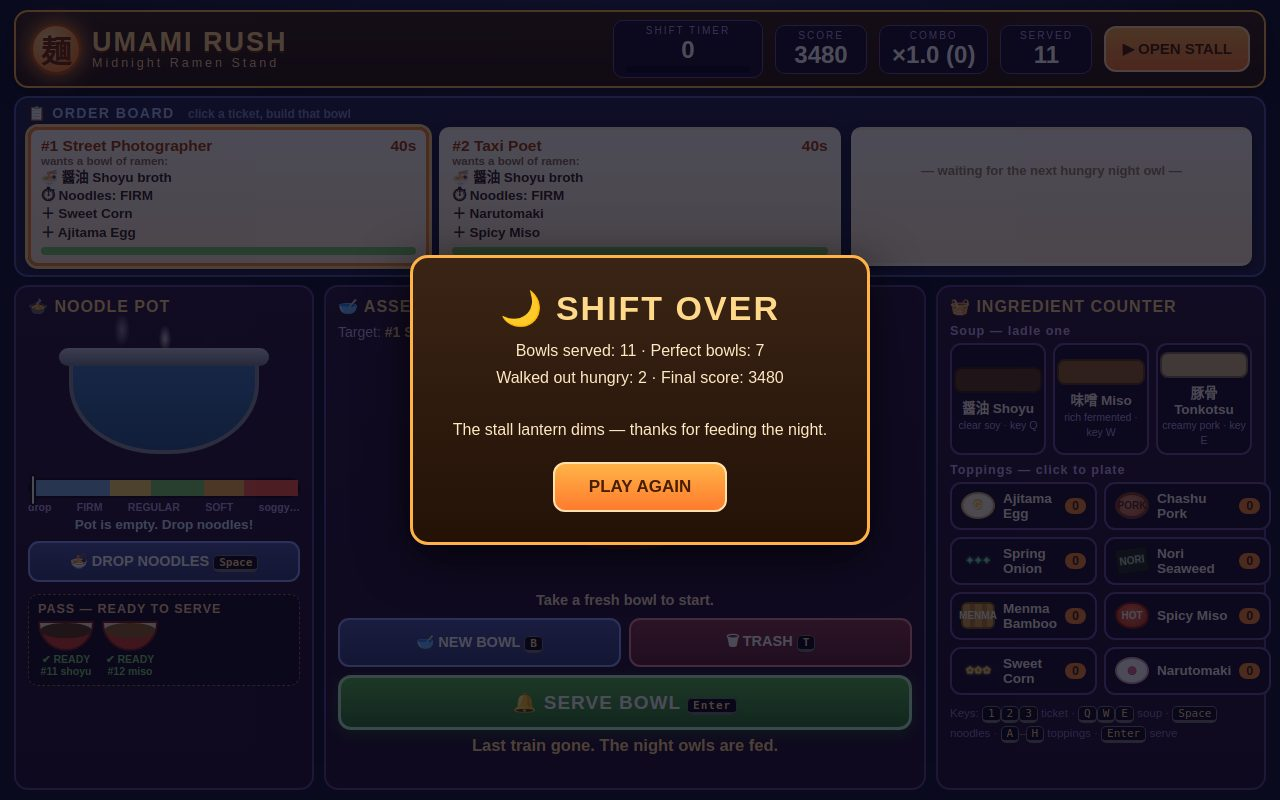
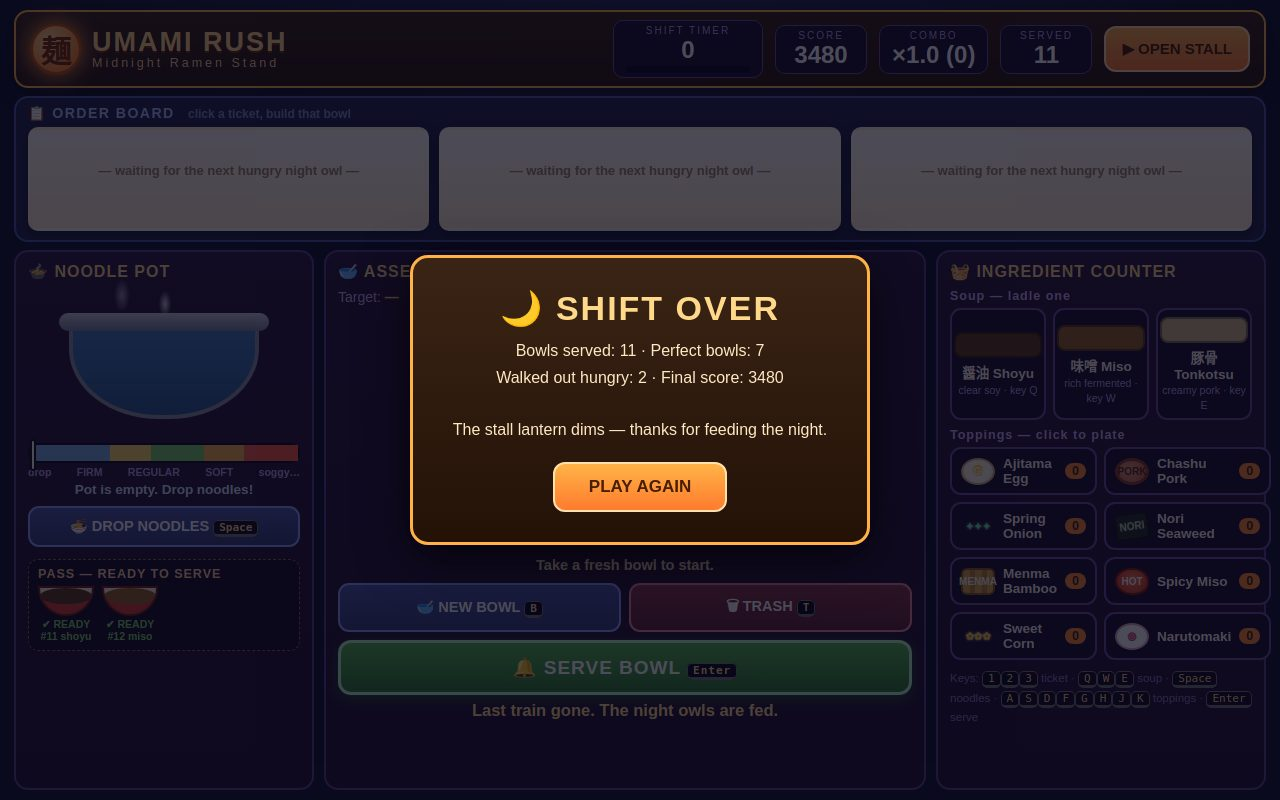
Fix Astra review findings: empty-bowl serve exploit, duplicate topping scoring, Enter/Space focus double-action, serve guard, end-scene board

diff --git a/game/src/main.js b/game/src/main.js
@@ -6,7 +6,7 @@ import {
   dropNoodlesInPot, pullNoodlesFromPot, tickPot,
 } from './cooking.js';
 import { buildCounterButtons, renderGame, showOverlay, hideOverlay } from './render.js';
-import { bindKeyboard, bindTicketClicks } from './input.js';
+import { bindKeyboard, bindTicketClicks, blurButtonsAfterClick } from './input.js';
 import { buildShotScene, shotEndSummary } from './shots.js';
 import { sfx } from './audio.js';
 
@@ -47,6 +47,7 @@ const handlers = {
     renderGame(state);
   },
   onServe() {
+    if (!state.running) { renderGame(state); return; }
     const result = serveCurrentBowl(state);
     if (result) { sfx.serveBell(); if (result.perfect) setTimeout(() => sfx.perfect(), 150); }
     renderGame(state);
@@ -58,6 +59,7 @@ const handlers = {
 };
 
 buildCounterButtons(handlers);
+blurButtonsAfterClick();
 bindTicketClicks((number) => { selectOrder(state, number); sfx.click(); renderGame(state); });
 bindKeyboard(handlers);
 document.getElementById('bowl-btn').addEventListener('click', handlers.onNewBowl);
@@ -86,7 +88,7 @@ renderGame(state);
 // Shift clock: only real play advances; screenshot scenes stay frozen.
 let lastTimestamp = performance.now();
 function frame(now) {
-  const dt = Math.min(0.05, (now - lastTimestamp) / 1000);
+  const dt = Math.min(0.1, (now - lastTimestamp) / 1000);
   lastTimestamp = now;
   if (state.running && !state.over) {
     tickPot(state.kitchen, dt);

diff --git a/game/src/game.js b/game/src/game.js
@@ -98,6 +98,11 @@ export function tickShift(state, dt, hooks) {
 export function serveCurrentBowl(state) {
   const order = selectedOrder(state);
   if (!order || !state.kitchen.bowl) return null;
+  if (!state.kitchen.bowl.broth || !state.kitchen.bowl.noodleDoneness) {
+    state.feedback = 'That bowl is not food yet — it needs broth and noodles before it can be served.';
+    state.feedbackKind = 'bad';
+    return null;
+  }
   const result = scoreServedBowl(state.kitchen.bowl, order, state.combo);
   state.score += result.points;
   state.servedCount += 1;
@@ -107,7 +112,7 @@ export function serveCurrentBowl(state) {
   state.feedback = result.verdict;
   state.feedbackKind = result.perfect ? 'good' : '';
   state.lastServe = { order, result };
-  state.kitchen.pass.push({ label: `#${order.number} ${order.broth}`, broth: order.broth });
+  state.kitchen.pass.push({ label: `#${order.number} ${state.kitchen.bowl.broth}`, broth: state.kitchen.bowl.broth });
   if (state.kitchen.pass.length > 3) state.kitchen.pass.shift();
   state.kitchen.bowl = null;
   state.orders = state.orders.filter((o) => o !== order);

diff --git a/game/src/cooking.js b/game/src/cooking.js
@@ -61,9 +61,14 @@ export function scoreServedBowl(bowl, order, combo) {
   if (bowl.broth === order.broth) earned += 60; else problems.push(bowl.broth ? 'wrong broth' : 'no broth');
   if (bowl.noodleDoneness === order.doneness) earned += 60;
   else problems.push(bowl.noodleDoneness ? `noodles ${bowl.noodleDoneness}` : 'no noodles');
-  const wanted = new Set(order.toppings);
   const missing = order.toppings.filter((t) => !bowl.toppings.includes(t));
-  const extras = bowl.toppings.filter((t) => !wanted.has(t));
+  const wantedCounts = {};
+  for (const t of order.toppings) wantedCounts[t] = (wantedCounts[t] || 0) + 1;
+  const extras = [];
+  for (const t of bowl.toppings) {
+    if (wantedCounts[t] > 0) wantedCounts[t] -= 1;
+    else extras.push(t);
+  }
   earned += (order.toppings.length - missing.length) * 22;
   if (missing.length) problems.push(`missing ${missing.join(', ')}`);
   if (extras.length) { earned -= extras.length * 18; problems.push(`extra ${extras.join(', ')}`); }

diff --git a/game/src/shots.js b/game/src/shots.js
@@ -32,7 +32,7 @@ export function buildShotScene(name, seed) {
     if (state.orders[1]) state.orders[1].patienceLeft = state.orders[1].patience * 0.3;
     state.feedback = name === 'cover'
       ? 'One topping to go — then ring the bell!'
-      : 'PERFECT BOWL! +412 — the customer slurps happily.';
+      : 'Combo is hot — finish this bowl, keep the line moving!';
     state.feedbackKind = 'good';
   }
 
@@ -57,6 +57,7 @@ export function buildShotScene(name, seed) {
     state.timeLeft = 0; state.elapsed = 90; state.over = true;
     state.score = 3480; state.combo = 0; state.servedCount = 11; state.perfectCount = 7;
     state.walkedOut = 2;
+    state.orders = []; state.selectedOrderNumber = null;
     state.kitchen.pass = [{ label: '#11 shoyu', broth: 'shoyu' }, { label: '#12 miso', broth: 'miso' }];
     state.feedback = 'Last train gone. The night owls are fed.';
   }

diff --git a/game/src/input.js b/game/src/input.js
@@ -9,12 +9,19 @@ export function bindTicketClicks(onSelect) {
   });
 }
 
+export function blurButtonsAfterClick() {
+  document.addEventListener('click', (event) => {
+    const btn = event.target.closest('button');
+    if (btn) btn.blur();
+  });
+}
+
 export function bindKeyboard(handlers) {
   window.addEventListener('keydown', (event) => {
     if (event.repeat) return;
     const key = event.key.toLowerCase();
     if (key === ' ') { event.preventDefault(); handlers.onNoodleAction(); return; }
-    if (key === 'enter') { handlers.onServe(); return; }
+    if (key === 'enter') { event.preventDefault(); handlers.onServe(); return; }
     if (key === 'b') { handlers.onNewBowl(); return; }
     if (key === 't') { handlers.onTrash(); return; }
     if (['1', '2', '3'].includes(key)) { handlers.onSelectIndex(Number(key) - 1); return; }

diff --git a/game/index.html b/game/index.html
@@ -86,7 +86,7 @@
       <h3>Toppings — click to plate</h3>
       <div id="topping-grid"></div>
       <p class="hint">Keys: <kbd>1</kbd><kbd>2</kbd><kbd>3</kbd> ticket · <kbd>Q</kbd><kbd>W</kbd><kbd>E</kbd> soup ·
-      <kbd>Space</kbd> noodles · <kbd>A</kbd>–<kbd>H</kbd> toppings · <kbd>Enter</kbd> serve</p>
+      <kbd>Space</kbd> noodles · <kbd>A</kbd><kbd>S</kbd><kbd>D</kbd><kbd>F</kbd><kbd>G</kbd><kbd>H</kbd><kbd>J</kbd><kbd>K</kbd> toppings · <kbd>Enter</kbd> serve</p>
     </section>
   </main>
 
